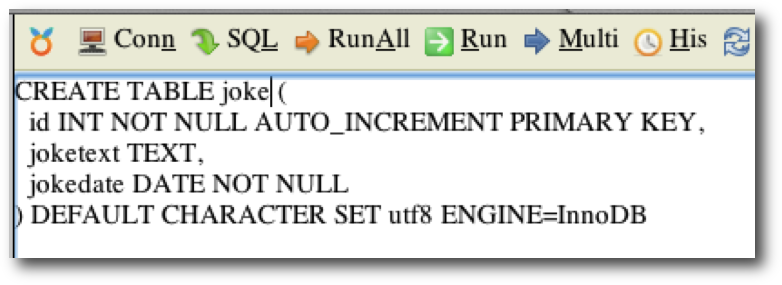
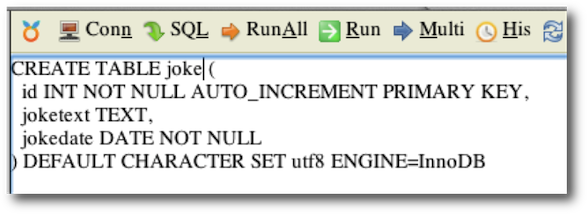
adjust image size

diff --git a/courses/me105a/exercises/lab1.md b/courses/me105a/exercises/lab1.md
@@ -149,13 +149,13 @@ catch (Exception $e)
 
 Ersätt sedan raden 
 
-{% highlight php %}
+{% highlight php startinline=True %}
 $pdo=new PDO(...
 {% endhighlight %}
 
 i index.php med
 
-{% highlight php %}
+{% highlight php startinline=True %}
 include $_SERVER['DOCUMENT_ROOT'].'/k3bope/me105a/connect.php';
 {% endhighlight %}
 
